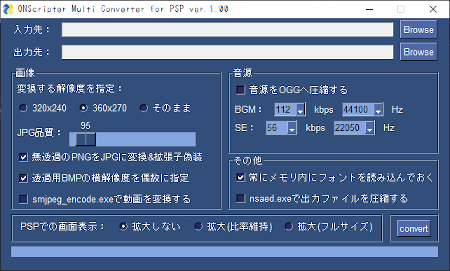
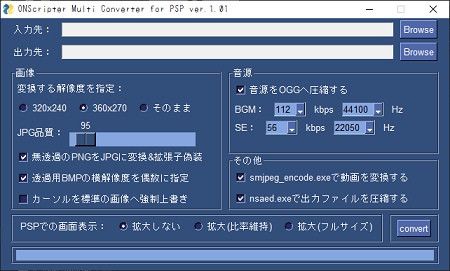
[Fix]新機能追加、細かなバグ修正

diff --git a/NSC2ONS4PSP.py b/NSC2ONS4PSP.py
@@ -1,4 +1,3 @@
-from chardet import detect
 from io import BytesIO
 from PIL import Image
 import PySimpleGUI as sg
@@ -14,7 +13,7 @@ import os
 import re
 
 ####################################################################################################
-window_title = 'ONScripter Multi Converter for PSP ver.1.00'
+window_title = 'ONScripter Multi Converter for PSP ver.1.01'
 ####################################################################################################
 
 # -memo-
@@ -23,6 +22,15 @@ window_title = 'ONScripter Multi Converter for PSP ver.1.00'
 # jsonでの作品個別処理何も実装してねぇ...
 # もうopencv使うのは諦めよう
 
+
+# -最新の更新履歴(v1.0.1)- 
+# txt読み込み時の文字コード指定を削除
+# cursor.xxxが.bmp以外の場合に対応
+# フォントのON/OFFを削除
+# 動画変換を"その他"欄へ移動
+# "カーソルを標準の画像へ強制上書き"実装
+# デフォルトでチェック入っている項目をいくつか変更
+# 初回のエラー表示にテーマが反映されてなかったのを修正
 
 # これを読んだあなた。
 # どうかこんな可読性の欠片もないクソコードを書かないでください。
@@ -76,30 +84,32 @@ def subprocess_args(include_stdout=True):
 
 ######################################## GUI表示前の変数設定 ########################################
 
+sg.theme('DarkBlue12')#テーマ設定
+
 #-----ffmpeg存在チェック-----
 try:
 	subprocess.run('ffmpeg', **subprocess_args(True))
 	subprocess.run('ffprobe', **subprocess_args(True))
 except:
-	ffmpeg_notexist = True
+	ffmpeg_exist = False
 	sg.popup('ffmpegが利用できません', title='!')
 else:
-	ffmpeg_notexist = False
+	ffmpeg_exist = True
 
 #-----nsaed存在チェック-----
 nsaed_path = ((os.path.dirname(sys.argv[0])) + r'/tools/nsaed.exe')
 if os.path.exists(nsaed_path):
-	nsaed_notexist = False
+	nsaed_exist = True
 else:
-	nsaed_notexist = True
+	nsaed_exist = False
 	sg.popup('./tools/nsaed.exeが利用できません', title='!')
 
 #-----smjpeg存在チェック(ffmpeg非導入時は強制NG)-----
 smjpeg_path = ((os.path.dirname(sys.argv[0])) + r'/tools/smjpeg_encode.exe')
-if ffmpeg_notexist == False and os.path.exists(smjpeg_path):
-	smjpeg_notexist = False
+if ffmpeg_exist == True and os.path.exists(smjpeg_path):
+	smjpeg_exist = True
 else:
-	smjpeg_notexist = True
+	smjpeg_exist = False
 	sg.popup('./tools/smjpeg_encode.exeが利用できません', title='!')
 
 
@@ -157,8 +167,6 @@ all_convsound = (ext_dict['sound'][0] + ext_dict['sound'][2])#全変換用音源
 kbps_list = ['128', '112', '96', '64', '56', '48', '32']
 Hz_list = ['44100', '22050', '11025']
 
-sg.theme('DarkBlue12')#テーマ設定
-
 col = [
 	[sg.Text('入力先：'), sg.InputText(k='input_dir', size=(67, 15), readonly=True), sg.FolderBrowse()],
 	[sg.Text('出力先：'), sg.InputText(k='output_dir', size=(67, 15), readonly=True), sg.FolderBrowse()],
@@ -172,20 +180,20 @@ frame_1 = sg.Frame('画像', [
 	[sg.Text('JPG品質：'), sg.Slider(range=(100,1), default_value=95, k='jpg_quality', pad=((0,0),(0,0)), orientation='h')],
 	[sg.Checkbox('無透過のPNGをJPGに変換&拡張子偽装', k='jpg_mode', default=True)],
 	[sg.Checkbox('透過用BMPの横解像度を偶数に指定', k='img_even', default=True)],
-	[sg.Checkbox('smjpeg_encode.exeで動画を変換する', k='vid_flag', disabled=smjpeg_notexist)],
+	[sg.Checkbox('カーソルを標準の画像へ強制上書き', k='cur_overwrite', default=False)],
 ], size=(300, 205))
 
 frame_2 = sg.Frame('音源', [
-	[sg.Checkbox('音源をOGGへ圧縮する', k='ogg_mode', disabled=ffmpeg_notexist)],
-	[sg.Text('BGM：'), sg.Combo(values=(kbps_list), default_value='112', readonly=True, k='BGM_kbps', disabled=ffmpeg_notexist), sg.Text('kbps'), 
-	 sg.Combo(values=(Hz_list), default_value='44100', readonly=True, k='BGM_Hz', disabled=ffmpeg_notexist), sg.Text('Hz'),],
-	[sg.Text('SE：'), sg.Combo(values=(kbps_list), default_value='56', readonly=True, k='SE_kbps', disabled=ffmpeg_notexist), sg.Text('kbps'), 
-	 sg.Combo(values=(Hz_list), default_value='22050', readonly=True, k='SE_Hz', disabled=ffmpeg_notexist), sg.Text('Hz'),],
+	[sg.Checkbox('音源をOGGへ圧縮する', k='ogg_mode', default=ffmpeg_exist, disabled=(not ffmpeg_exist))],
+	[sg.Text('BGM：'), sg.Combo(values=(kbps_list), default_value='112', readonly=True, k='BGM_kbps', disabled=(not ffmpeg_exist)), sg.Text('kbps'), 
+	 sg.Combo(values=(Hz_list), default_value='44100', readonly=True, k='BGM_Hz', disabled=(not ffmpeg_exist)), sg.Text('Hz'),],
+	[sg.Text('SE：'), sg.Combo(values=(kbps_list), default_value='56', readonly=True, k='SE_kbps', disabled=(not ffmpeg_exist)), sg.Text('kbps'), 
+	 sg.Combo(values=(Hz_list), default_value='22050', readonly=True, k='SE_Hz', disabled=(not ffmpeg_exist)), sg.Text('Hz'),],
 ], size=(300, 125), pad=(0,0))
 
 frame_3 = sg.Frame('その他', [
-	[sg.Checkbox('常にメモリ内にフォントを読み込んでおく', k='ram_font', default=True)],
-	[sg.Checkbox('nsaed.exeで出力ファイルを圧縮する', k='nsa_mode', disabled=nsaed_notexist)],
+	[sg.Checkbox('smjpeg_encode.exeで動画を変換する', k='vid_flag', default=smjpeg_exist, disabled=(not smjpeg_exist))],
+	[sg.Checkbox('nsaed.exeで出力ファイルを圧縮する', k='nsa_mode', default=nsaed_exist, disabled=(not nsaed_exist))],
 ], size=(300, 80), pad=(0,0))
 
 flame_4 = sg.Frame('', [
@@ -199,9 +207,9 @@ flame_5 = sg.Frame('', [
 	[sg.Button('convert', pad=(9,6))]
 ], size=(70, 40))
 
-progressbar = [
-	[sg.ProgressBar(10000, orientation='h', size=(55.4, 15), key='progressbar')]
-]
+progressbar = sg.Frame('', [
+	[sg.ProgressBar(10000, orientation='h', size=(60, 15), key='progressbar')]
+], size=(610, 25))
 
 frame_in_2and3 = sg.Column([[frame_2],[frame_3]])
 
@@ -329,7 +337,7 @@ def func_txt_zero(text):
 		print('不正なtxtが存在します')
 		err_flag = True#シナリオじゃなさそうなのでエラー
 
-	if re.search(r'\nnsa', text) == None :#nsa読み込み命令が無い時
+	if re.search(r'\n[ |\t]*nsa[ |\t]*\n', text) == None :#nsa読み込み命令が無い時
 		text = re.sub(r'\*define', r'*define\nnsa', text, 1)#*define直下に命令追記(保険)
 
 
@@ -340,9 +348,9 @@ def func_txt_all(text):
 	global alpha_img_list_tup
 
 	#-PSPで使用できない命令を無効化する-
-	text = re.sub(r'avi "(.+?)",([0|1])', r'mpegplay "\1",\2', text)#aviをmpegplayで再生(後に拡張子偽装)
-	text = re.sub(r'okcancelbox %(.+?),', r'mov %\1,1 ;', text)#okcancelboxをmovで強制ok
-	text = re.sub(r'yesnobox %(.+?),', r'mov %\1,1 ;', text)#yesnoboxをmovで強制yes
+	text = re.sub(r'([\n|\t|:| ])avi "(.+?)",([0|1])', r'\1mpegplay "\2",\3', text)#aviをmpegplayで再生(後に拡張子偽装)
+	text = re.sub(r'([\n|\t|:| ])okcancelbox %(.+?),', r'\1mov %\2,1 ;', text)#okcancelboxをmovで強制ok
+	text = re.sub(r'([\n|\t|:| ])yesnobox %(.+?),', r'\1mov %\2,1 ;', text)#yesnoboxをmovで強制yes
 
 	#-拡張子置換-
 	#変数作成
@@ -363,9 +371,10 @@ def func_txt_all(text):
 	if values['vid_flag']:#動画変換処理を行う場合
 		vid_list_rel += re.findall(r'mpegplay "(.+?)",[0|1]', text)#txt内の動画の相対パスを格納
 	else:#動画変換処理を行わない場合
+		text = re.sub(r'mpegplay "(.+?)",[0|1]:', r'', text)#if使用時 - 再生部分を抹消
 		text = text.replace('mpegplay ', ';mpegplay ')#再生部分をコメントアウト
 
-	open(textpath, mode='w', encoding=text_char).write(text)#全置換処理終了後書き込み
+	open(textpath, mode='w').write(text)#全置換処理終了後書き込み
 
 
 
@@ -469,20 +478,30 @@ def func_image_conv(file, file_ext):
 	#---変換後サイズを指定---
 	result_width = round(img.width*per)
 	result_height = round(img.height*per)
-
+	
+	#---拡張子偽装済みカーソル(!?)対策のため名前だけ取り出し変数に代入---
+	file_nameonly = os.path.splitext(os.path.basename(file))[0]#実際あるんですよ行儀悪い同人ゲーとかで
 
 	#---通常画像とカーソル画像がココで分岐---
-	if os.path.basename(file) in cur_dictlist[0].keys():#画像がカーソル
-		
-		#---読み込んだものと同名のカーソルを辞書から持ってくる&デコード&代入---
-		img_default = Image.open(BytesIO(base64.b64decode(cur_dictlist[2][os.path.basename(file)])))
+	if file_nameonly + r'.bmp' in cur_dictlist[0].keys():#画像がカーソル
 
-		#---画素比較のためnumpyへ変換---
-		np_img_default = np.array(img_default)
-		np_img = np.array(img)
+		#---カーソル強制上書きモード判断---
+		if values['cur_overwrite'] == True:
+			cur_conv = True
+
+		else:
+			#---読み込んだものと同名のカーソルを辞書から持ってくる&デコード&代入---
+			img_default = Image.open(BytesIO(base64.b64decode(cur_dictlist[2][file_nameonly + r'.bmp'])))
+
+			#---画素比較のためnumpyへ変換---
+			np_img_default = np.array(img_default)
+			np_img = np.array(img)
+
+			#---結果を変数へ代入---
+			cur_conv = np.array_equal(np_img, np_img_default)
 
 		#---画素比較---
-		if np.array_equal(np_img, np_img_default):#カーソルが公式の画像と同一の時
+		if cur_conv:#カーソルが公式の画像と同一の時
 			if values['res_NoChange']:#解像度無変更時
 				#-変更の必要なし→そのまま代入-
 				img_resize = img_default
@@ -492,7 +511,7 @@ def func_image_conv(file, file_ext):
 				cur_dictnum = int(per < 0.5)#bool(T/F)の結果をint(1/0)にしているがもしかしたら型変換不要かも？
 
 				#-読み込んだものと同じカーソルの縮小版を辞書から持ってくる&デコード&代入-
-				img_resize = Image.open(BytesIO(base64.b64decode(cur_dictlist[cur_dictnum][os.path.basename(file)])))
+				img_resize = Image.open(BytesIO(base64.b64decode(cur_dictlist[cur_dictnum][file_nameonly + r'.bmp'])))
 
 		else:#カーソルが独自の画像の時
 			if (img.mode != 'RGB'):#RGBじゃない画像をRGB形式に
@@ -634,11 +653,6 @@ def func_arc_nsa(arc_num):
 
 #-----ons.ini作成-----
 def func_ons_ini():
-	#-メモリにフォントを読み込んでおくか-
-	if values['ram_font']:
-		ini_fm = 'ON'
-	else:
-		ini_fm = 'OFF'
 
 	#-解像度拡大-
 	if values['size_normal']:#拡大しない
@@ -665,7 +679,7 @@ def func_ons_ini():
 		'ASPECT=' + ini_asp + '\n',
 		'SCREENBPP=32\n',
 		'CPUCLOCK=333\n',
-		'FONTMEMORY=' + ini_fm + '\n',
+		'FONTMEMORY=ON\n',
 		'ANALOGKEY=ON1\n',
 		'CURSORSPEED=10\n',
 		'SAMPLINGRATE=' + ini_rate +'\n',
@@ -702,7 +716,6 @@ while True:
 		search_dir = (values['input_dir'])
 		result_dir = (values['output_dir'] + r'/result')
 
-
 		#-----入出力先のパスが競合しそうなら勝手に消す-----
 		if os.path.exists(result_dir):
 			shutil.rmtree(result_dir)
@@ -722,9 +735,7 @@ while True:
 			alpha_img_list_tup = []#txt内の画像(透明指定だけど透過画像じゃないやつ)の相対パスを格納するための配列
 
 			for i,textpath in enumerate(text_list):
-				text = open(textpath, 'rb').read()#一旦バイナリで読む
-				text_char = str(detect(text)['encoding'])#文字コード判定
-				text = open(textpath, 'r', encoding=text_char).read()#再度テキストを読み込み
+				text = open(textpath, 'r', errors="ignore").read()#テキストを読み込み
 
 				if textpath == (result_dir + r'/0.txt'):#[関数]0.txt読み込み時(初回限定)処理
 					game_mode = 0

diff --git a/README.md b/README.md
@@ -123,12 +123,11 @@
  画像の横解像度を偶数にすることによって、<br>
  "立ち絵の横に謎の縦線が表示される"不具合を回避します<br>
 
- - **smjpeg_encode.exeで動画を変換する**<br>
- シナリオ内の"avi"または"mpegplay"命令で再生する動画を<br>
- "smjpeg_encode.exe"を使ってPSP向けの形式に変換します<br>
- さっきと同じくシナリオ側のパス指定ミスを避けるため<br>
- 変換後の拡張子はそのままで保存されます<br>
- 動作にはsmjpegだけでなく**FFprobe/FFmpegも必要です**<br>
+ - **カーソルを標準の画像へ強制上書き**<br>
+ 元のカーソル画像を縮小して利用せずに、<br>
+ NScripter/ONScripter標準の画像を利用します<br>
+ 画面が崩れる場合があるため推奨しません<br>
+ (デフォルトではチェックを外してあります)<br>
 
 #### 音源
  - **音源をOGGへ圧縮する**<br>
@@ -138,11 +137,12 @@
  (BGMとSEの区別は「ディレクトリ名に"bgm"と入っているか」です)<br>
 
 #### その他
- - **常にメモリ内にフォントを読み込んでおく**<br>
- PSPで動作させる際、常にフォントをRAMに読み込ませ、<br>
- 文字表示を高速化させるかどうかの設定です<br>
- RAMの消費量が増えるためPSP-1000での利用は非推奨<br>
- (処理としてはons.iniの"FONTMEMORY"を書き換えてるだけ)<br>
+ - **smjpeg_encode.exeで動画を変換する**<br>
+ シナリオ内の"avi"または"mpegplay"命令で再生する動画を<br>
+ "smjpeg_encode.exe"を使ってPSP向けの形式に変換します<br>
+ さっきと同じくシナリオ側のパス指定ミスを避けるため<br>
+ 変換後の拡張子はそのままで保存されます<br>
+ 動作にはsmjpegだけでなく**FFprobe/FFmpegも必要です**<br>
 
  - **nsaed.exeで出力ファイルを圧縮する**<br>
  全ての画像/音源ファイルの変換処理が終了した後に、<br>
@@ -169,7 +169,7 @@
  圧縮や変換などの一部機能が利用できなくなります<br>
 
  - 本ツールを使用した際に出力されるons.iniは、<br>
- [新verのONScripter向けの記述](https://web.archive.org/web/20100709172750/http://blog.livedoor.jp/tormtorm/archives/51520243.html)となっています<br>
+ [新verのONScripter向けの記述](https://web.archive.org/web/20100709172750fw_/http://blog.livedoor.jp/tormtorm/archives/51520243.html)となっています<br>
 
  - 対応しているゲームの解像度は4種類のみです<br>
  以下の解像度以外は変換が行えません<br>

diff --git a/TITLELIST.md b/TITLELIST.md
@@ -21,10 +21,12 @@
 ### HARD
  - [v1.0.0]はっちゃけあやよさん(NScripter版)
  - [v1.0.0]はっちゃけあやよさん2 いけないホリディ(NScripter版)
+ - [v1.0.1]はっちゃけあやよさん3 私、逝っちゃったんです。(NScripter版)
 
- 元がドット絵なので細かい座標ズレが目立ちますが普通に動作します<br>
- 何故か3のtxtが現時点では本ツールでうまく読み込めません<br>
- (手動で圧縮変換すれば普通にPSPで動くのですが...)<br>
+ 元がドット絵なので細かい座標ズレが目立ちますが普通にクリア可能<br>
+ v1.0.1であやよさん3も動作するようになりましたが、<br>
+ カーソル画像がうまく透過されないようです<br>
+ (ファイル名が標準と違うことが原因？)<br>
  4以降は所持していないので不明<br>
 
 ### ねこねこソフト
@@ -53,7 +55,8 @@
  - [v1.0.0]男土下座地獄
  - [v1.0.0]冬は幻の鏡
 
- 外部のDLLへの依存は特になさそうなので<br>
+ "男土下座地獄"に関してはクリア確認済<br>
+ "冬は幻の鏡"もDLLへの依存は特になさそうなので<br>
  恐らくほぼ完璧に動作すると思われます<br>
 
 ## 動作しなかった作品
@@ -81,6 +84,15 @@
  <br>
  また、文字ウインドウの表示位置がズレています<br>
  (これに関しては320x240変換で修正可能)<br>
+
+### (猫)milkcat
+ - [v1.0.0]ヒトナツの夢
+ - [v1.0.0]ほたるゆき -SnowSky Edition-
+
+ "ヒトナツの夢"は音源に拡張子偽装の跡が見られます<br>
+ その辺の修正で突破できるかもしれません<br>
+ "ほたるゆき"は全くと言っていいほど起動せず<br>
+ 恐らく何らかのDLLが邪魔しているのではないかと<br>
 
 ## 本ツールを使わないほうがいい作品
 
